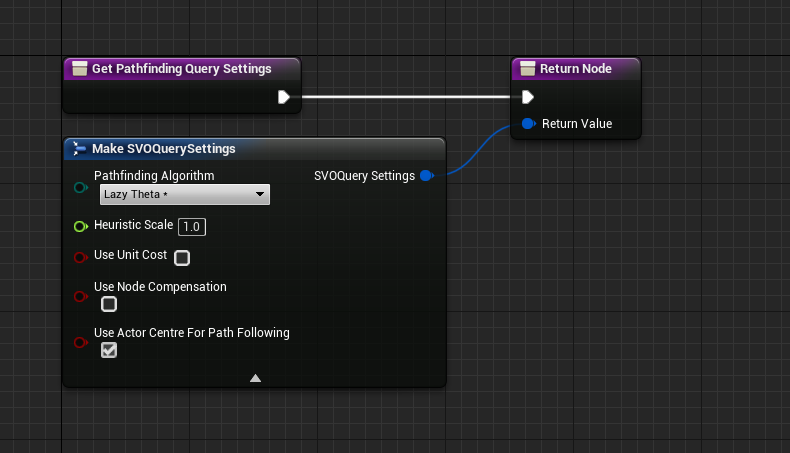
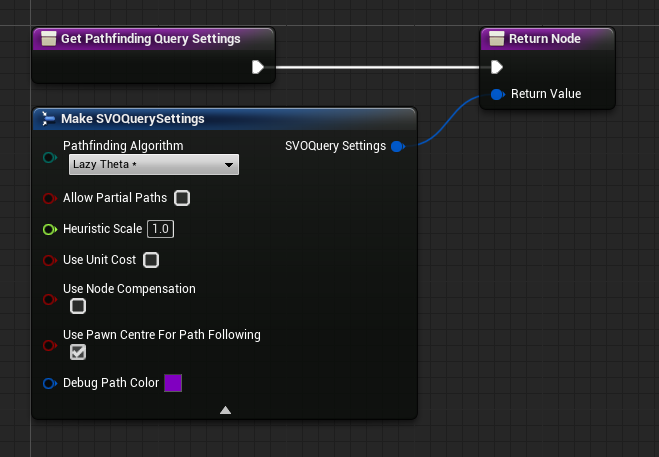
Added note about CrowdSystem, added SetNavPathPoints node docs
Debug path colour option

Changed region(s): [[0.0303, 0.0309, 0.9408, 0.9272], [0.3035, 0.8344, 0.3338, 0.8653]]

diff --git a/usage.html b/usage.html
@@ -389,6 +389,12 @@
                                         This option will translate the path up to compensate, to make sure the pawn flies through its centre.
                                     </p>
                                 </div><!--//section-block-->
+                                <div id="debug-colour" class="section-block">
+                                    <h4>Debug Path Color</h4>
+                                    <p>
+                                        The color used to debug draw the navigation paths (see Display/DrawDebugPaths)
+                                    </p>
+                                </div><!--//section-block-->
                             </section><!--//doc-section-->
                             <section id="geometry" class="doc-section">
                                 <h2 class="section-title">Geometry</h2>
@@ -793,15 +799,26 @@
                                         <img class="img-fluid" src="assets/images/usage16_3.png" alt="Get Pathfinding Result use case"/>
                                     </div> <!--//screenshot-holder-->
                                 </div><!--//section-block-->
+                                <div id="nav-path-points" class="section-block">
+                                    <h4>Set Navigation Path Points</h4>
+                                    <p>Allows custom blueprint post-processing of paths. Takes an existing navigation path, and replaces the path points with the given array of vectors.</p>
+                                    <div class="screenshot-holder">
+                                        <img class="img-fluid" src="assets/images/usage18.png" alt="Set Navigation Path Points"/>
+                                    </div> <!--//screenshot-holder-->
+                                    <p>For example, this node can be used to flatten a path to the x-y plane by clearing the z-component of each path point.</p>
+                                    <div class="screenshot-holder">
+                                        <img class="img-fluid" src="assets/images/usage19.png" alt="Set Navigation Path Points use case"/>
+                                    </div> <!--//screenshot-holder-->
+                                </div><!--//section-block-->
                                 <div id="request-move" class="section-block">
                                     <h4>Request Move</h4>
                                     <p>Takes a path output from <code>Find Path To Actor/Location Synchronously/Asynchronously</code> and requests an <code>AIController</code> to follow it.</p>
                                     <div class="screenshot-holder">
-                                        <img class="img-fluid" src="assets/images/usage18.png" alt="Request Move"/>
+                                        <img class="img-fluid" src="assets/images/usage20.png" alt="Request Move"/>
                                     </div> <!--//screenshot-holder-->
                                     <p>For example, to make a pawn find the player when the level starts:</p>
                                     <div class="screenshot-holder">
-                                        <img class="img-fluid" src="assets/images/usage19.png" alt="Request Move use case"/>
+                                        <img class="img-fluid" src="assets/images/usage21.png" alt="Request Move use case"/>
                                     </div> <!--//screenshot-holder-->
                                 </div><!--//section-block-->
                             </section><!--//doc-section-->
@@ -861,6 +878,9 @@
 	const FVector&amp; FloatToVec(const float* Coords, const int32 Index);
 	FVector&amp; FloatToVec(float* Coords, const int32 Index);
 	FVector&amp; FloatToVec(TArray&lt;float&gt;&amp; Coords, const int32 Index);
+
+    // Copies and converts an array of FNavPathPoints to an array of FVectors
+	void ConvertNavPathPointsToVector(const TArray&lt;FNavPathPoint&gt;&amp; In, TArray&lt;FVector&gt;&amp; Out);
 }</code></pre>
                                     <br>
                                     <h6><code>FSVOLink</code> struct:</h6>

diff --git a/troubleshooting.html b/troubleshooting.html
@@ -73,7 +73,8 @@
                                     <h3 class="question"><i class="fas fa-dragon"></i> AI Implementation</h3>
                                     <div class="answer">
                                         This plugin does not contain any movement components or behaviour trees.
-                                        It only implements 3D pathfinding algorithms.
+                                        It only implements 3D pathfinding algorithms. <br> <br>
+                                        The CrowdSystem is currently not supported for flying agents (as it requires specific features of the navmesh).
                                     </div>
                                 </div><!--//section-block-->
                                 <div id="runtime" class="section-block">
@@ -161,6 +162,10 @@
                                             <li>
                                                 The AI controller needs to be requested to move.
                                                 Using <code>MoveTo</code> or a behaviour tree does this for you, but for the <code>FindPath*</code> nodes you need to use the <a href="usage.html#request-move" target="_blank">Request Move</a> node.
+                                            </li>
+                                            <li>
+                                                The PathFollowingComponent of the AIController might be a CrowdFollowingComponent. Make sure you're not using a DetourAICrowdController. <br>
+                                                The CrowdSystem is currently not supported for flying agents (as it requires specific features of the navmesh).
                                             </li>
                                         </ol>
                                     </div>
